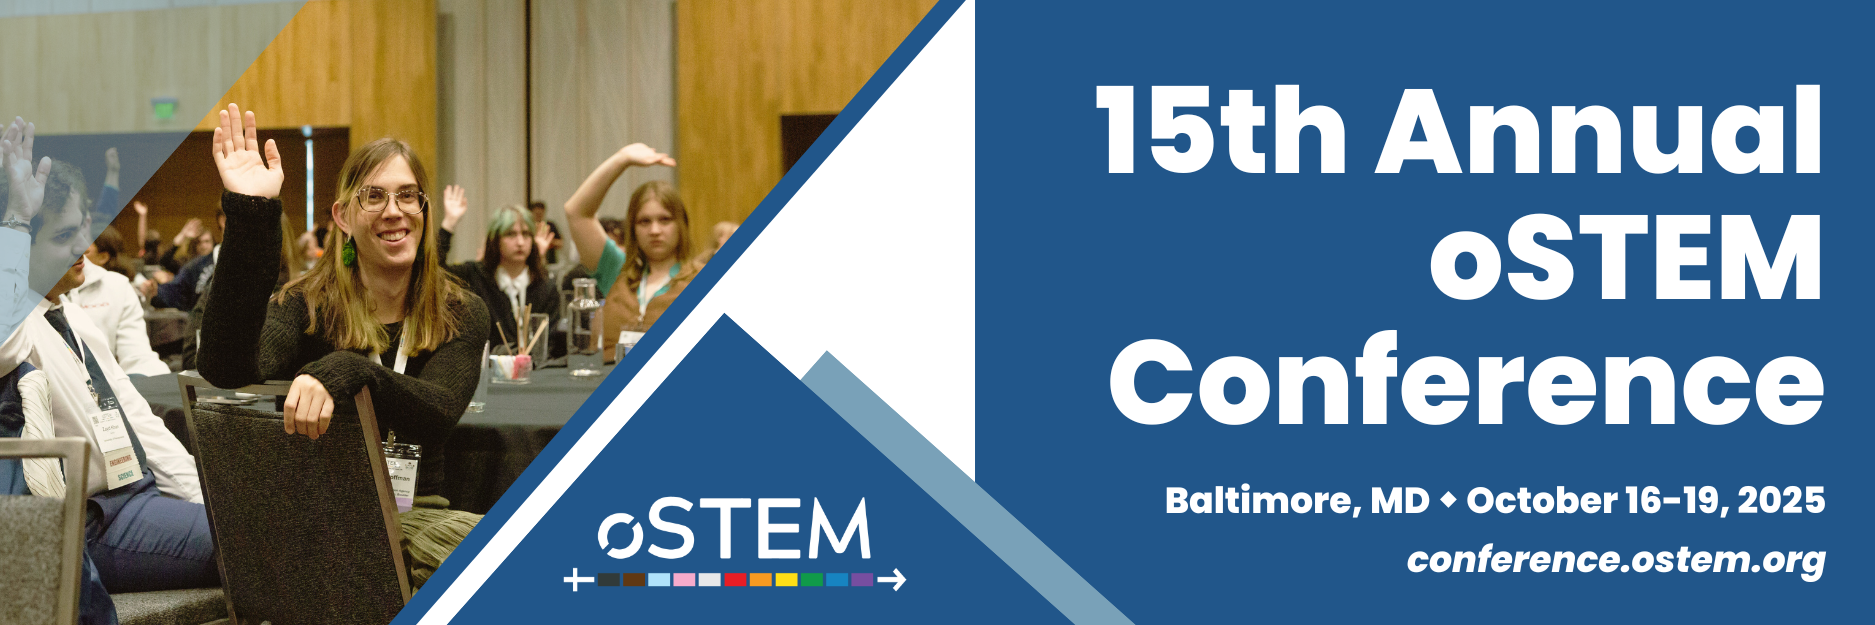
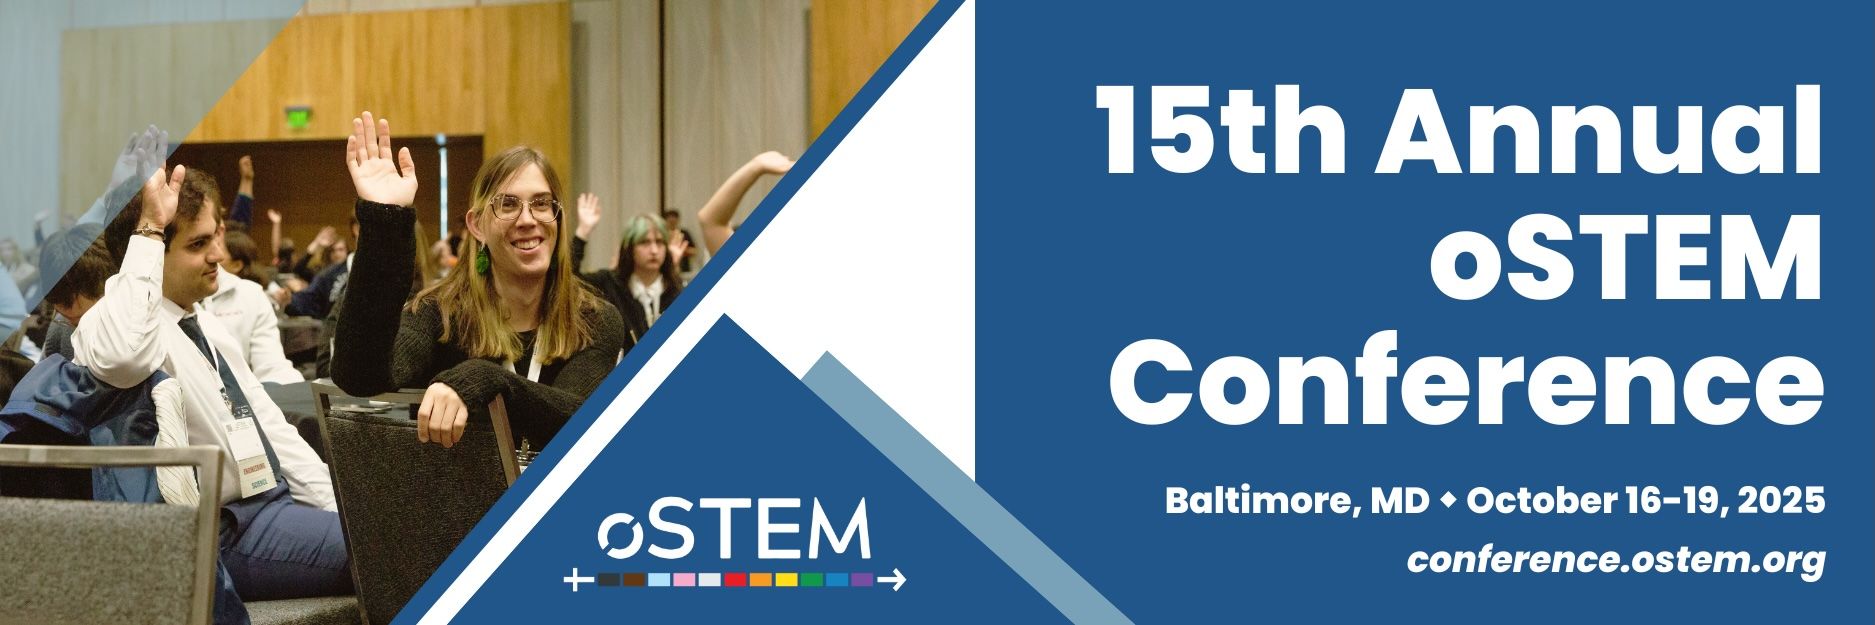
Updates to bare conf info
- commented out nav bars
- changed graphics to cover names
- closed awards nominations
-
NominationClosed = true,
Components/awards/awardcards

Sitelayout
 else {
    updateBannerVisible = false;

Changed region(s): [[0.0, 0.0, 0.4949, 1.0], [0.3712, 0.912, 0.4331, 0.9424]]

diff --git a/src/components/navbar/Navbar.config.ts b/src/components/navbar/Navbar.config.ts
@@ -11,16 +11,17 @@ import { NavbarCategory, NavbarLink } from './NavbarCore';
  * Required properties: name, displayName, color
  */
 export const NAVBAR_CATEGORIES: NavbarCategory[] = [
-  {
-    name: 'attend',
-    displayName: 'Attend',
-    color: 'nav-green',
-  },
-  {
-    name: 'present',
-    displayName: 'Present',
-    color: 'nav-blue',
-  },
+  /**
+   *  name: 'attend',
+   *  displayName: 'Attend',
+   *  color: 'nav-green',
+   *},
+   *{
+   *  name: 'present',
+   *  displayName: 'Present',
+   *  color: 'nav-blue',
+   *},
+   */
   {
     name: 'partner',
     displayName: 'Partner',
@@ -39,80 +40,80 @@ export const NAVBAR_CATEGORIES: NavbarCategory[] = [
  * You can optionally add a badge property.
  */
 export const NAVBAR_LINKS: NavbarLink[] = [
+  /** {
+  *   category: 'attend',
+  *   label: 'Registration',
+  *   href: '/2025/attend/registration',
+  *   badge: {
+  *     label: 'Onsite Only',
+  *   },
+  * },
+  * {
+  *   category: 'attend',
+  *   label: 'Attendee Resources',
+  *   href: '/2025/attend/resources',
+  * },
+  * {
+  *   category: 'attend',
+  *   label: 'Schedule',
+  *   href: '/2025/attend/schedule',
+  * },
+  * {
+  *   category: 'attend',
+  *   label: 'Career Fair & Grad Expo',
+  *   href: '/2025/attend/expo',
+  * },
+  * {
+  *   category: 'attend',
+  *   label: 'Community Health & Safety',
+  *   href: '/2025/attend/health-and-safety',
+  * },
+  * {
+  *   category: 'present',
+  *   label: 'Request for Programs',
+  *   href: '/2025/present/request-for-programs',
+  *   badge: {
+  *     label: 'Closed',
+  *   },
+  * },
+  * {
+  *   category: 'present',
+  *   label: 'Request for Panel Topics',
+  *   href: '/2025/present/request-for-panel-topics',
+  *   badge: {
+  *     label: 'Closed',
+  *   },
+  * },
+  * {
+  *   category: 'present',
+  *   label: 'Call for Posters',
+  *   href: '/2025/present/call-for-posters',
+  *   badge: {
+  *     label: 'Closed',
+  *   },
+  * },,
   {
-    category: 'attend',
-    label: 'Registration',
-    href: '/2024/attend/registration',
-    badge: {
-      label: 'Onsite Only',
-    },
-  },
-  {
-    category: 'attend',
-    label: 'Attendee Resources',
-    href: '/2024/attend/resources',
-  },
-  {
-    category: 'attend',
-    label: 'Schedule',
-    href: '/2024/attend/schedule',
-  },
-  {
-    category: 'attend',
-    label: 'Career Fair & Grad Expo',
-    href: '/2024/attend/expo',
-  },
-  {
-    category: 'attend',
-    label: 'Community Health & Safety',
-    href: '/2024/attend/health-and-safety',
-  },
-  {
-    category: 'present',
-    label: 'Request for Programs',
-    href: '/2024/present/request-for-programs',
-    badge: {
-      label: 'Closed',
-    },
-  },
-  {
-    category: 'present',
-    label: 'Request for Panel Topics',
-    href: '/2024/present/request-for-panel-topics',
-    badge: {
-      label: 'Closed',
-    },
-  },
-  {
-    category: 'present',
-    label: 'Call for Posters',
-    href: '/2024/present/call-for-posters',
-    badge: {
-      label: 'Closed',
-    },
-  },
+    category: 'partner',
+    label: 'Exhibitor/Sponsor Resources',
+    href: '/2025/partner/resources',
+  }, */
   {
     category: 'partner',
     label: 'Exhibitors and Sponsors',
-    href: '/2024/partner/exhibitors-and-sponsors',
+    href: '/2025/partner/exhibitors-and-sponsors',
     badge: {
       label: 'Open',
       accent: true,
     },
   },
   {
-    category: 'partner',
-    label: 'Exhibitor/Sponsor Resources',
-    href: '/2024/partner/resources',
-  },
-  {
     category: 'misc',
     label: 'Annual Awards',
-    href: '/2024/awards/',
+    href: '/2025/awards/',
   },
-  {
+  /**{
     category: 'misc',
     label: "What's New?",
-    href: '/2024/whats-new',
-  },
+    href: '/2025/whats-new',
+  },*/
 ];

diff --git a/src/components/layout/SiteLayout.tsx b/src/components/layout/SiteLayout.tsx
@@ -29,7 +29,7 @@ export const SiteLayout = ({ children, title, accent }: SiteLayoutProps) => {
     if (typeof localStorage !== 'undefined')
       localStorage.setItem('ocf-ver', '1');
   } else {
-    updateBannerVisible = true;
+    updateBannerVisible = false;
   }
 
   function whatsNewCloseHandler() {

diff --git a/src/components/awards/AwardCard.tsx b/src/components/awards/AwardCard.tsx
@@ -15,7 +15,7 @@ export const AwardCard = ({
   alert,
   nominateUrl,
   awardDetailUrl,
-  nominationClosed = false,
+  nominationClosed = true,
 }: {
   borderColor: string;
   title: string;
